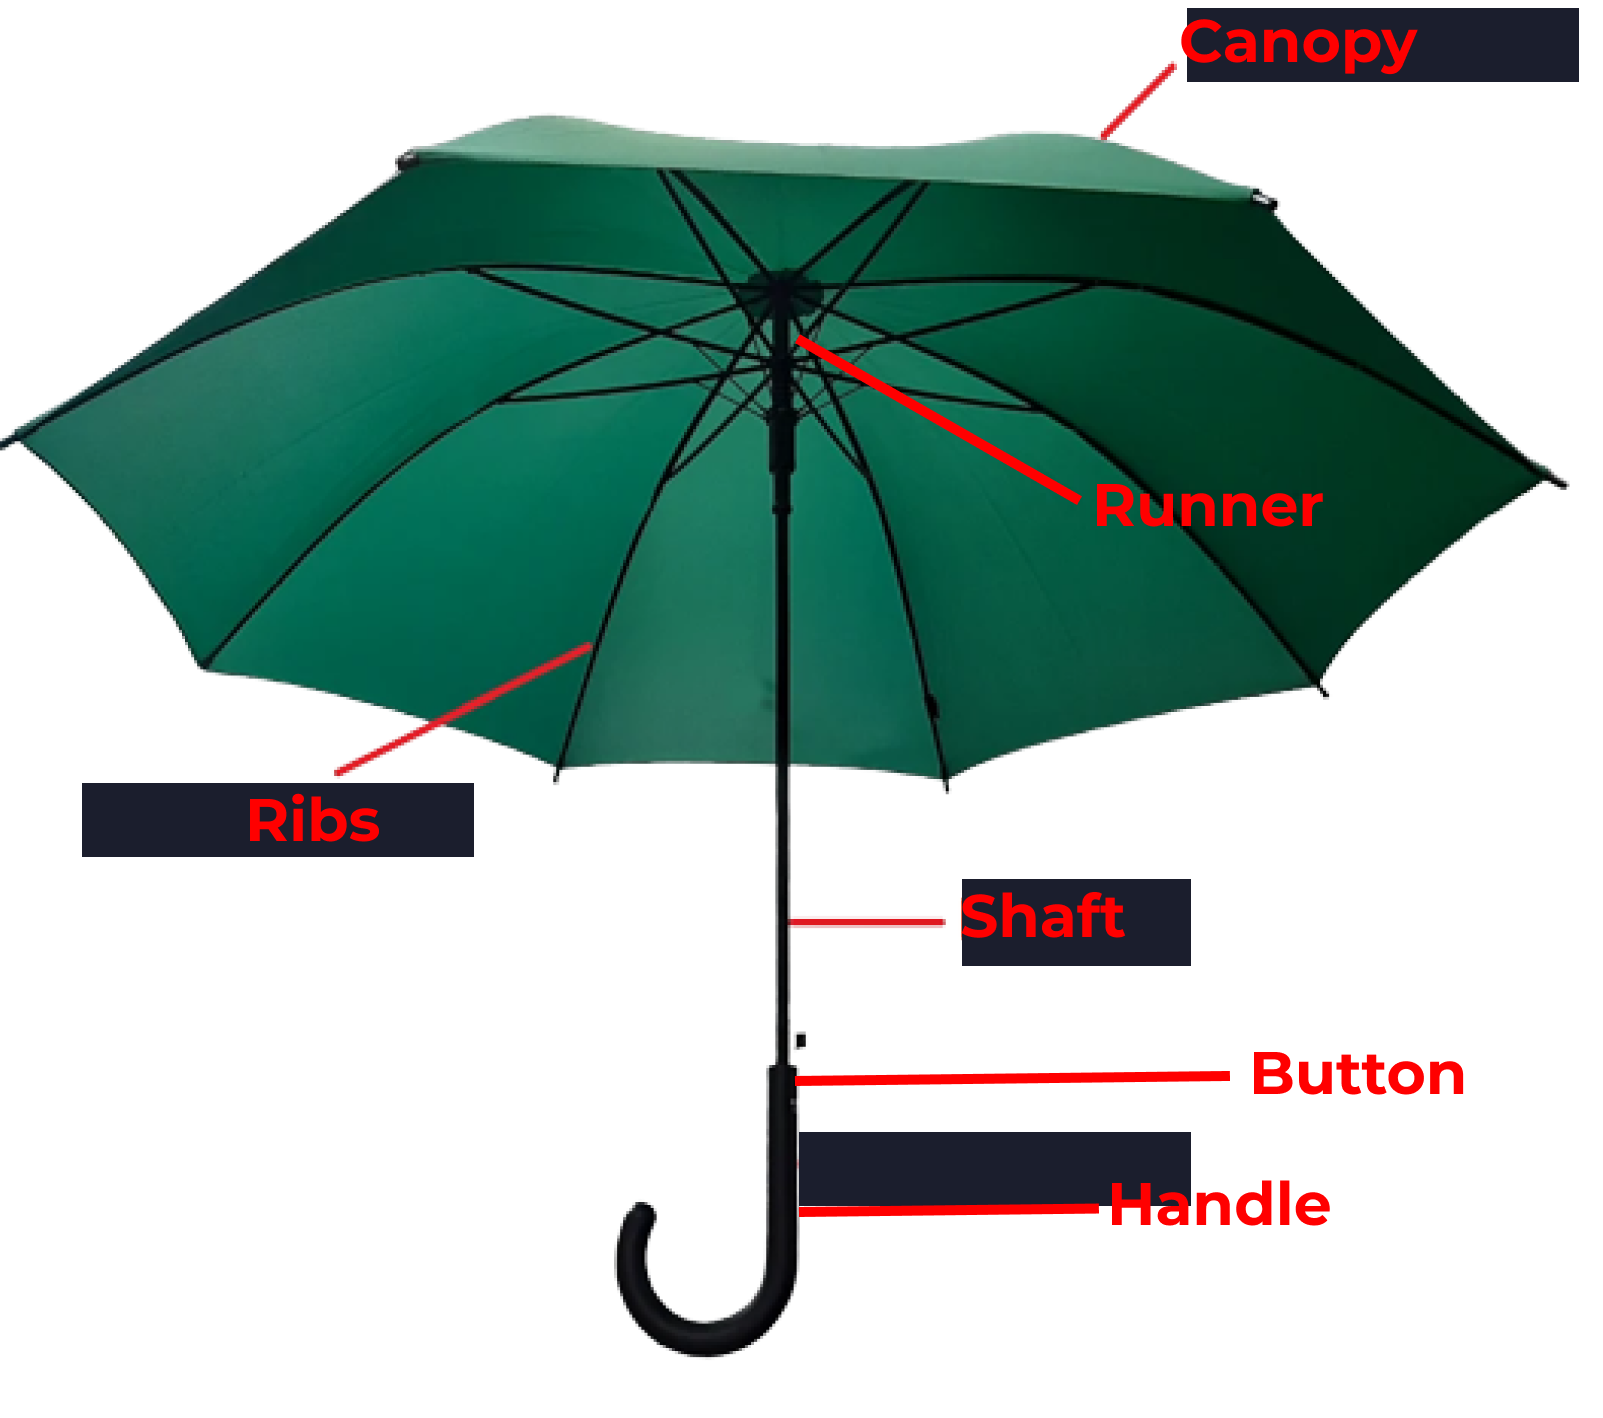
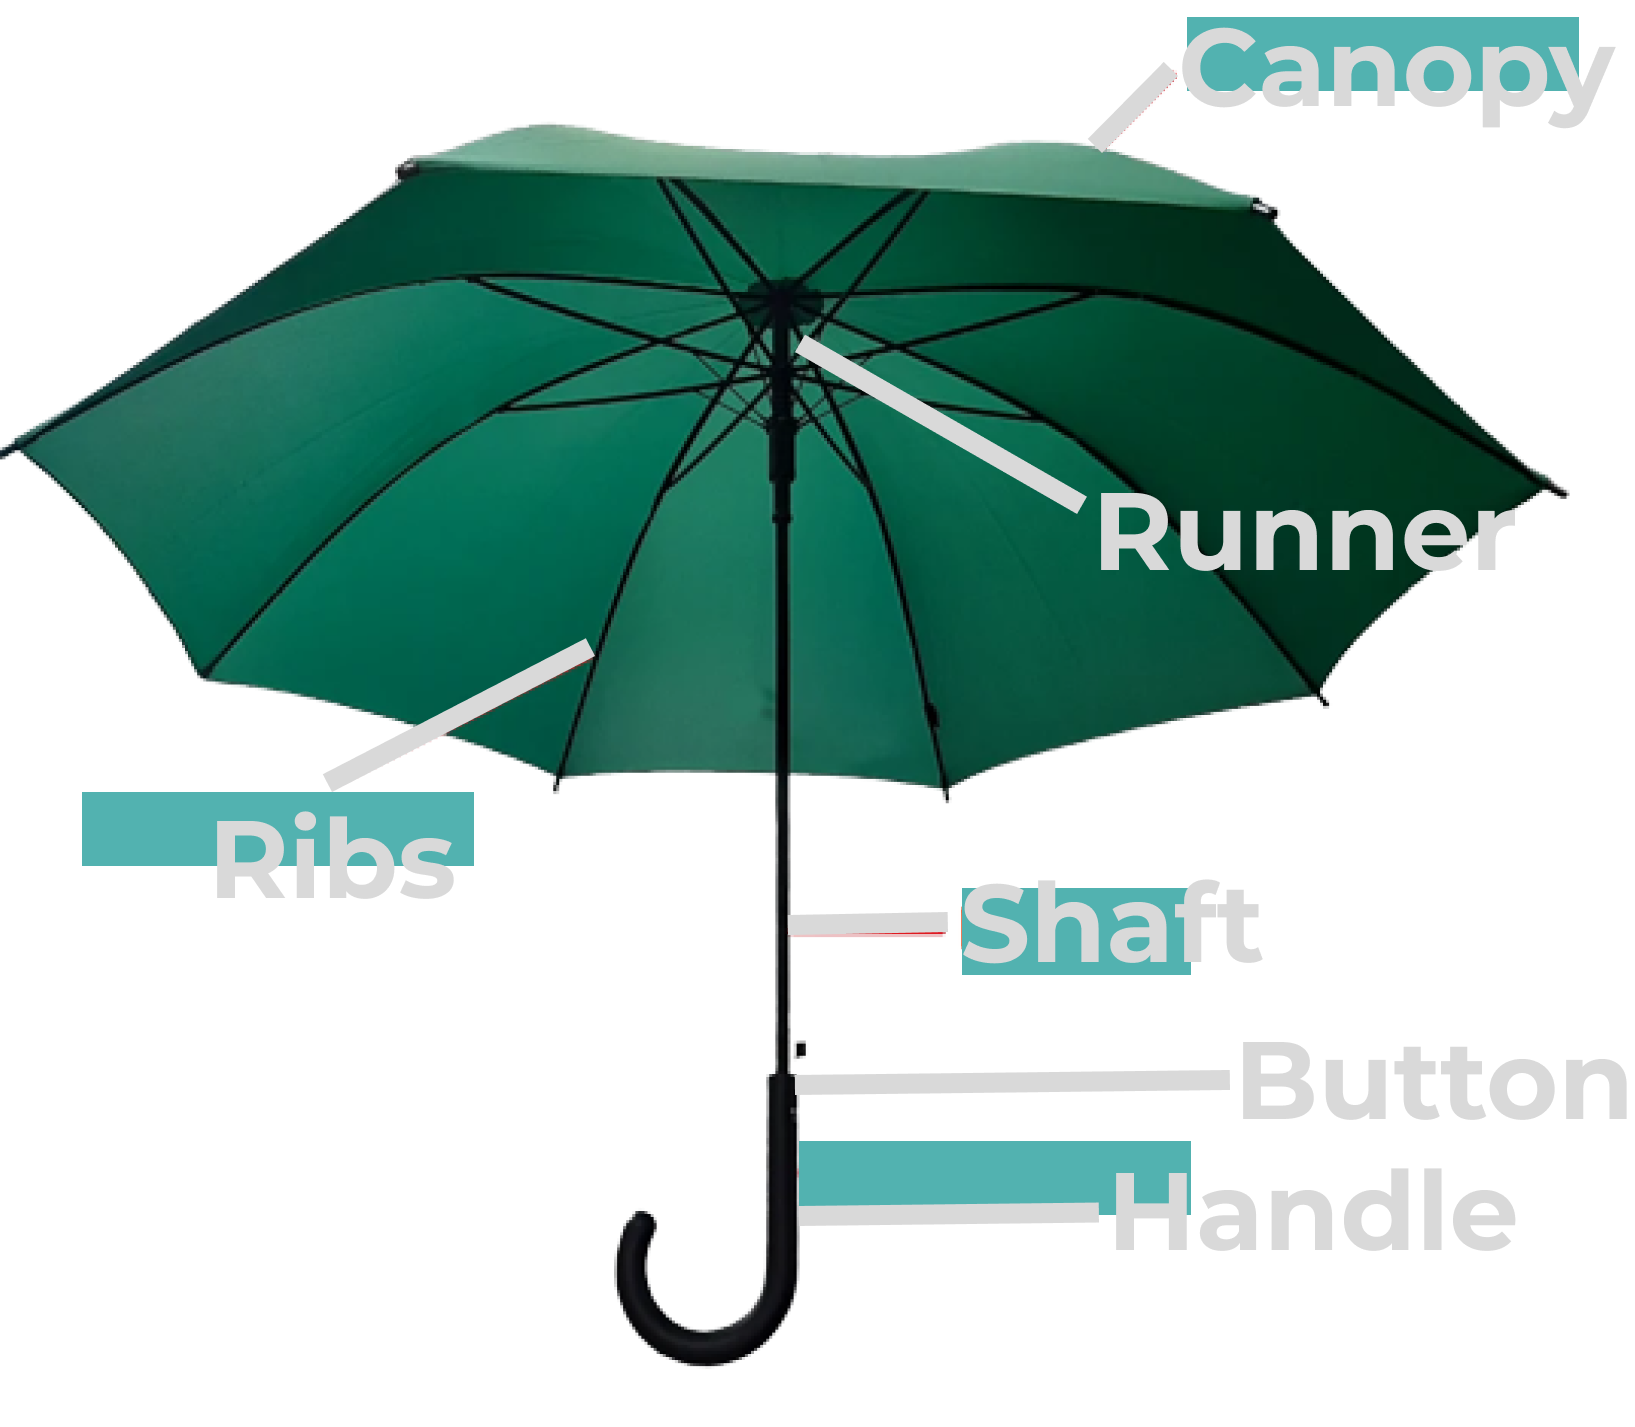
Updated assessment page colors

diff --git a/gui.py b/gui.py
@@ -59,13 +59,13 @@ class Root(tk.Tk):
             child.destroy()
         pre_damage_assessment_page = PreDamageAssessmentPage(self, 
                                                              umbrella_uuid=umbrella_uuid, 
-                                                             bg='#1B1E2D')
+                                                             bg='#52B2B0')
         pre_damage_assessment_page.pack()
         
     def show_return_page(self):
         for child in self.winfo_children():
             child.destroy()
-        return_page = ReturnPage(self, bg='#1B1E2D')
+        return_page = ReturnPage(self, bg='#52B2B0')
         return_page.pack()
 
     def show_payment_page(self, details):
